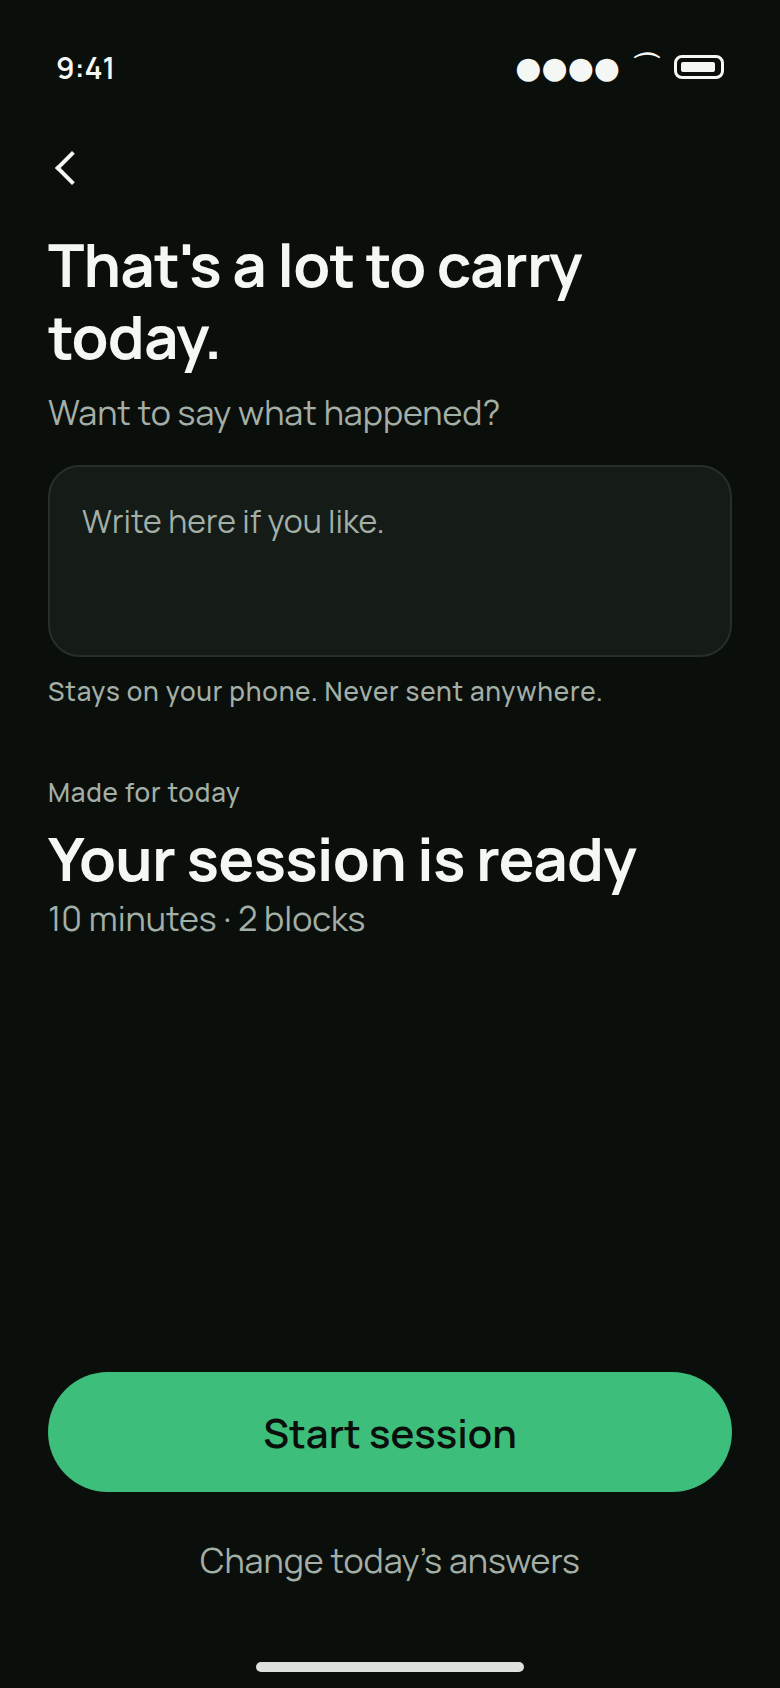
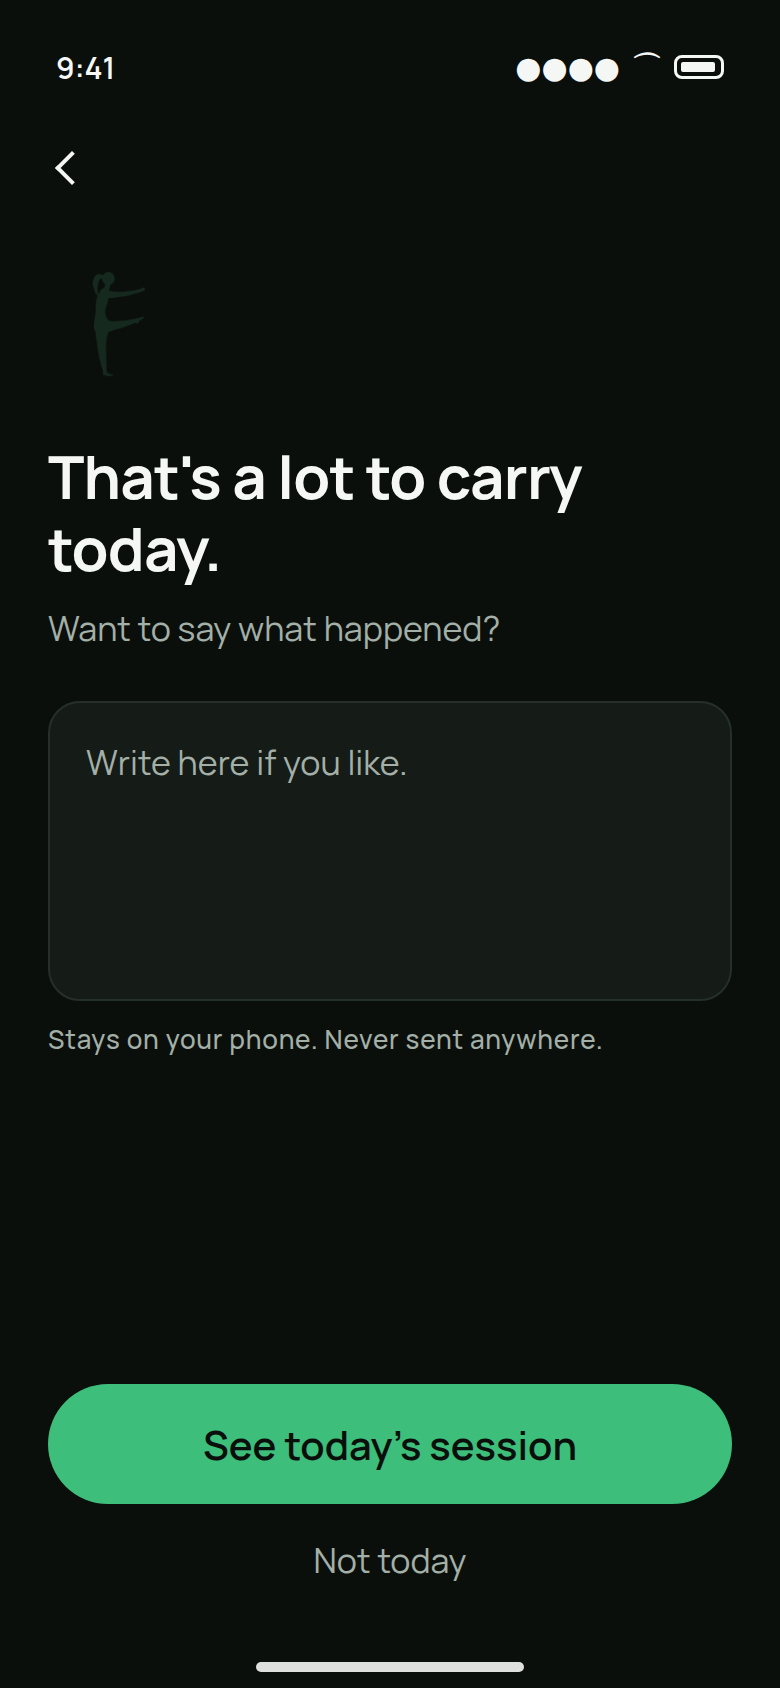
WIP: the care moment as its own screen before the preview

diff --git a/docs/design/mockups/preview-care.html b/docs/design/mockups/preview-care.html
@@ -1,21 +1,20 @@
 <!doctype html><html><head><meta charset="utf-8"><title>Heavy day</title><link rel="stylesheet" href="tokens.css"><link rel="stylesheet" href="_rows.css">
 <style>
-.center { flex: 1; display: flex; flex-direction: column; align-items: center; justify-content: center; text-align: center; gap: 12px; }
-.mark { width: 140px; height: 140px; background: var(--accent); -webkit-mask: url('../../../app/assets/brand/mark.png') center/contain no-repeat; mask: url('../../../app/assets/brand/mark.png') center/contain no-repeat; }
-.brand { flex: 1; display: flex; flex-direction: column; align-items: center; justify-content: center; gap: 20px; }
-.wordmark { font-size: 22px; font-weight: 700; letter-spacing: 6px; margin-left: 6px; }
-.field { border: 1px solid var(--line); border-radius: var(--r-card); background: var(--surface); padding: 16px; min-height: 96px; color: var(--ink-soft); font-size: 16px; }
-.lock { position: absolute; left: 0; right: 0; top: 0; bottom: 0; background: linear-gradient(180deg, #1b241e 0%, #0b0f0c 70%); }
-.lock .time { position: absolute; top: 110px; width: 100%; text-align: center; font-size: 84px; font-weight: 600; letter-spacing: -2px; }
-.lock .date { position: absolute; top: 80px; width: 100%; text-align: center; font-size: 20px; font-weight: 600; }
-.notif { position: absolute; left: 12px; right: 12px; bottom: 300px; background: rgba(255,255,255,0.12); backdrop-filter: blur(20px); border-radius: 22px; padding: 14px 16px; display: flex; gap: 12px; align-items: flex-start; }
-.notif .icon { width: 40px; height: 40px; border-radius: 10px; background: #0B0F0C; flex: 0 0 40px; position: relative; }
-.notif .icon::after { content: ""; position: absolute; inset: 6px; background: var(--accent); -webkit-mask: url('../../../app/assets/brand/mark.png') center/contain no-repeat; mask: url('../../../app/assets/brand/mark.png') center/contain no-repeat; }
-.notif .t { font-size: 15px; font-weight: 700; }
-.notif .b { font-size: 15px; line-height: 1.3; }
-.notif .when { margin-left: auto; font-size: 13px; color: rgba(255,255,255,0.6); }
-.icons { display: flex; gap: 24px; align-items: flex-end; }
-.icons img { border-radius: 22%; }
-.err { color: var(--danger); text-align: center; margin-top: 8px; }
-.notice { text-align: center; margin-top: 12px; }
-</style></head><body><div class="phone"><div class="statusbar"><span>9:41</span><span class="right"><span>●●●●</span><span>⌒</span><span class="batt"></span></span></div><div class="screen"><div class="rail"><span class="chevron"></span></div><div class="title" style="margin-top:24px">That's a lot to carry today.</div><div class="body-soft" style="margin-top:8px">Want to say what happened?</div><div class="field" style="margin-top:14px">Write here if you like.</div><div class="caption" style="margin-top:8px">Stays on your phone. Never sent anywhere.</div><div style="margin-top:32px"><div class="caption">Made for today</div><div class="title" style="margin-top:6px">Your session is ready</div><div class="body-soft">10 minutes · 2 blocks</div></div><div class="bottom" style="margin-top:auto;padding-bottom:8px"><div class="btn btn-primary">Start session</div><div class="btn btn-quiet">Change today's answers</div></div></div><div class="home-indicator"></div></div></body></html>
+.mark { width: 72px; height: 72px; background: var(--accent-soft); -webkit-mask: url('../../../app/assets/brand/mark.png') center/contain no-repeat; mask: url('../../../app/assets/brand/mark.png') center/contain no-repeat; margin-top: 36px; }
+.title { margin-top: 22px; max-width: 320px; }
+.prompt { margin-top: 10px; }
+.field { border: 1px solid var(--line); border-radius: var(--r-card); background: var(--surface); padding: 18px; min-height: 150px; color: var(--ink-soft); font-size: 17px; margin-top: 24px; }
+.priv { margin-top: 10px; }
+.bottom { padding-bottom: 8px; gap: 6px; }
+</style></head><body><div class="phone">
+<div class="statusbar"><span>9:41</span><span class="right"><span>●●●●</span><span>⌒</span><span class="batt"></span></span></div>
+<div class="screen">
+  <div class="rail"><span class="chevron"></span></div>
+  <div class="mark"></div>
+  <div class="title">That's a lot to carry today.</div>
+  <div class="body-soft prompt">Want to say what happened?</div>
+  <div class="field">Write here if you like.</div>
+  <div class="caption priv">Stays on your phone. Never sent anywhere.</div>
+  <div class="bottom"><div class="btn btn-primary">See today's session</div><div class="btn btn-quiet">Not today</div></div>
+</div>
+<div class="home-indicator"></div></div></body></html>

diff --git a/.claude/skills/fither-code/references/design-system.md b/.claude/skills/fither-code/references/design-system.md
@@ -206,3 +206,7 @@ is what gets built.
   blocks her recommends the way out as tappable actions (the engine
   names which areas unblock; one row each, today only), never a
   description plus a generic button. Applies to every dead end.
+- 2026-09-07, heavy-day preview: cluttered, two headlines competing. →
+  Rule: never two headlines on one screen. A moment that deserves its
+  own headline (the care acknowledgement) gets its own screen and one
+  button forward; the next screen starts clean.
